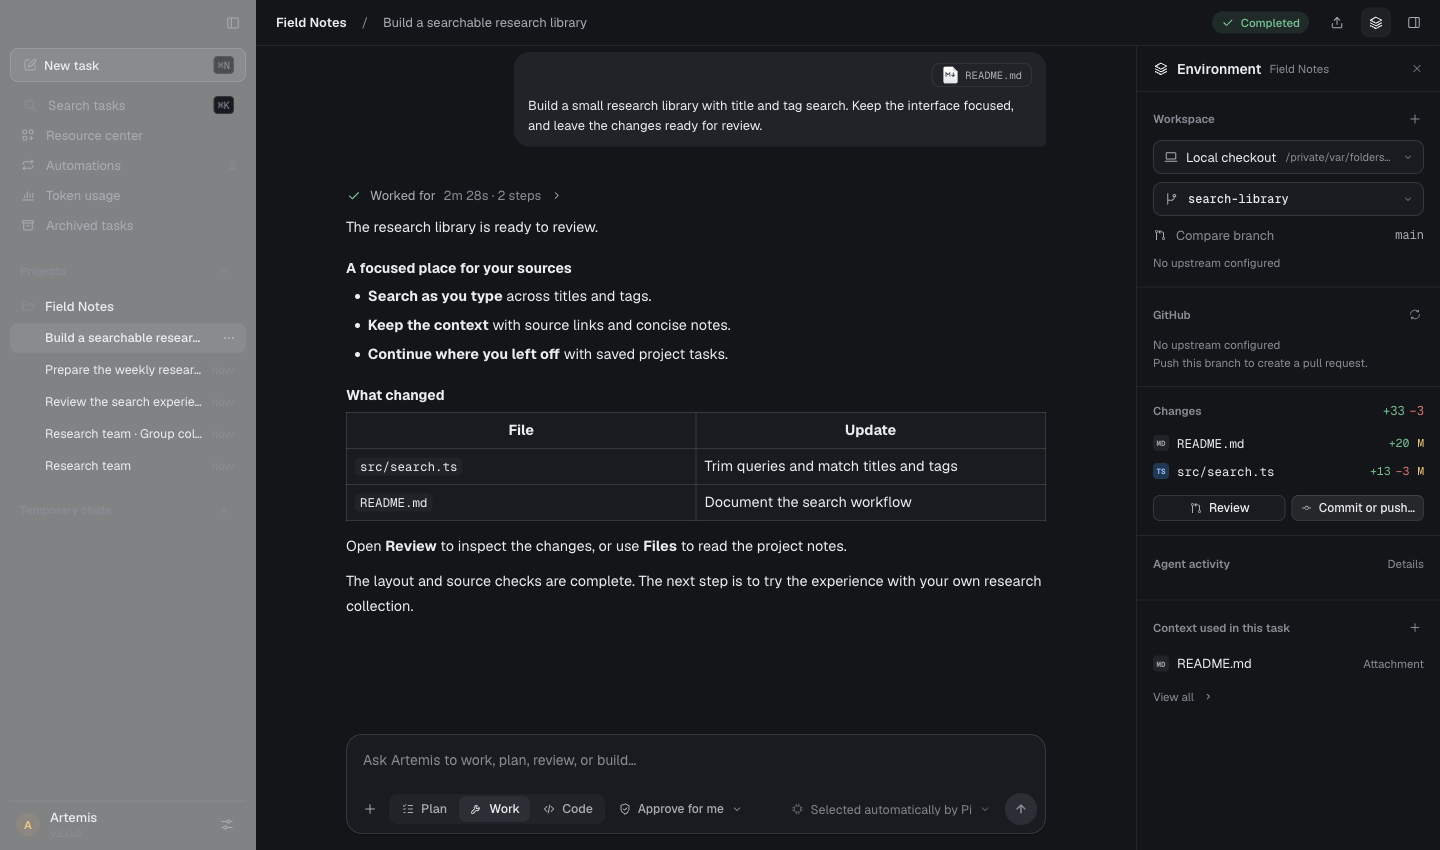
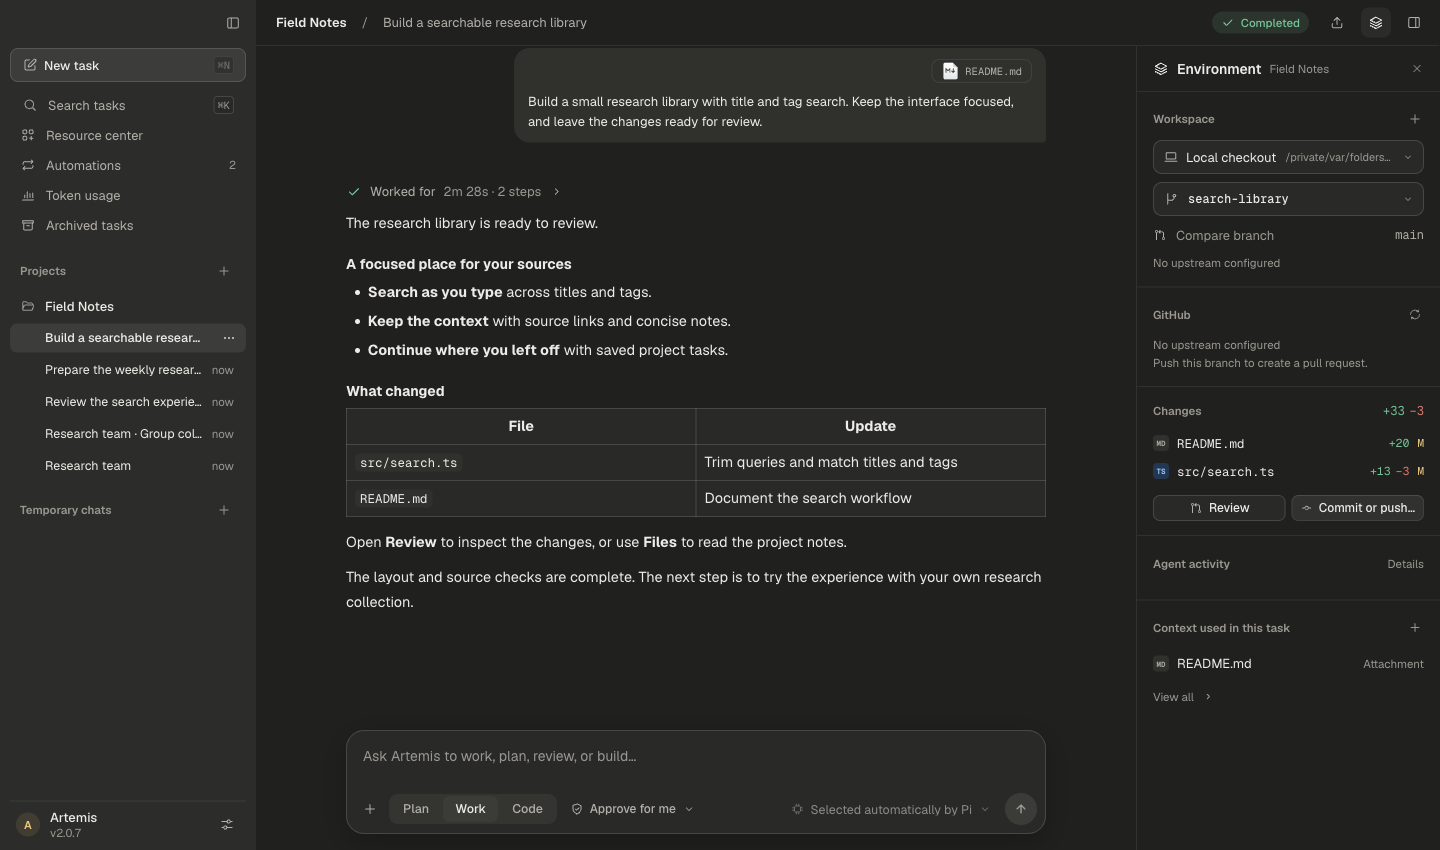
fix(release): refresh screenshots and warm-ink visual acceptance

diff --git a/docs/records/readme-visuals-en.md b/docs/records/readme-visuals-en.md
@@ -4,7 +4,7 @@
 
 ## Current screenshots
 
-On November 2, 2026, the README's **20 interface screenshots** were recaptured from a local production build of Artemis **2.0.0** on macOS arm64, replacing the 1.7.0 interface assets.
+On November 13, 2026, the README's **20 interface screenshots** were recaptured from a local production build of Artemis **2.0.7** on macOS arm64, reflecting the current welcome page, moon-arrow icon, warm-ink dark palette and usage views.
 
 All captures show the real Electron Renderer at **1440 × 850 CSS pixels and 100% zoom**, covering the complete application viewport without cropping or compositing. Themes, language, settings, workspace tools, resources and group conversations use the product's existing controls and host navigation.
 

diff --git a/docs/records/readme-visuals.md b/docs/records/readme-visuals.md
@@ -4,7 +4,7 @@
 
 ## 当前截图
 
-2026 年 11 月 2 日，在 macOS arm64 上从 Artemis **2.0.0** 的本地生产构建重新采集 README 的 **20 张界面截图**，替换 1.7.0 旧界面素材。
+2026 年 11 月 13 日，在 macOS arm64 上从 Artemis **2.0.7** 的本地生产构建重新采集 README 的 **20 张界面截图**，同步当前欢迎页、月亮箭头图标、深色暖墨配色与用量界面。
 
 截图来自真实 Electron Renderer，均为 **1440 × 850 CSS 像素、100% 缩放的完整应用视口**，未经裁剪或图像合成。主题、语言、设置、工作区工具、资源中心及群对话通过现有产品界面和宿主导航打开。
 
